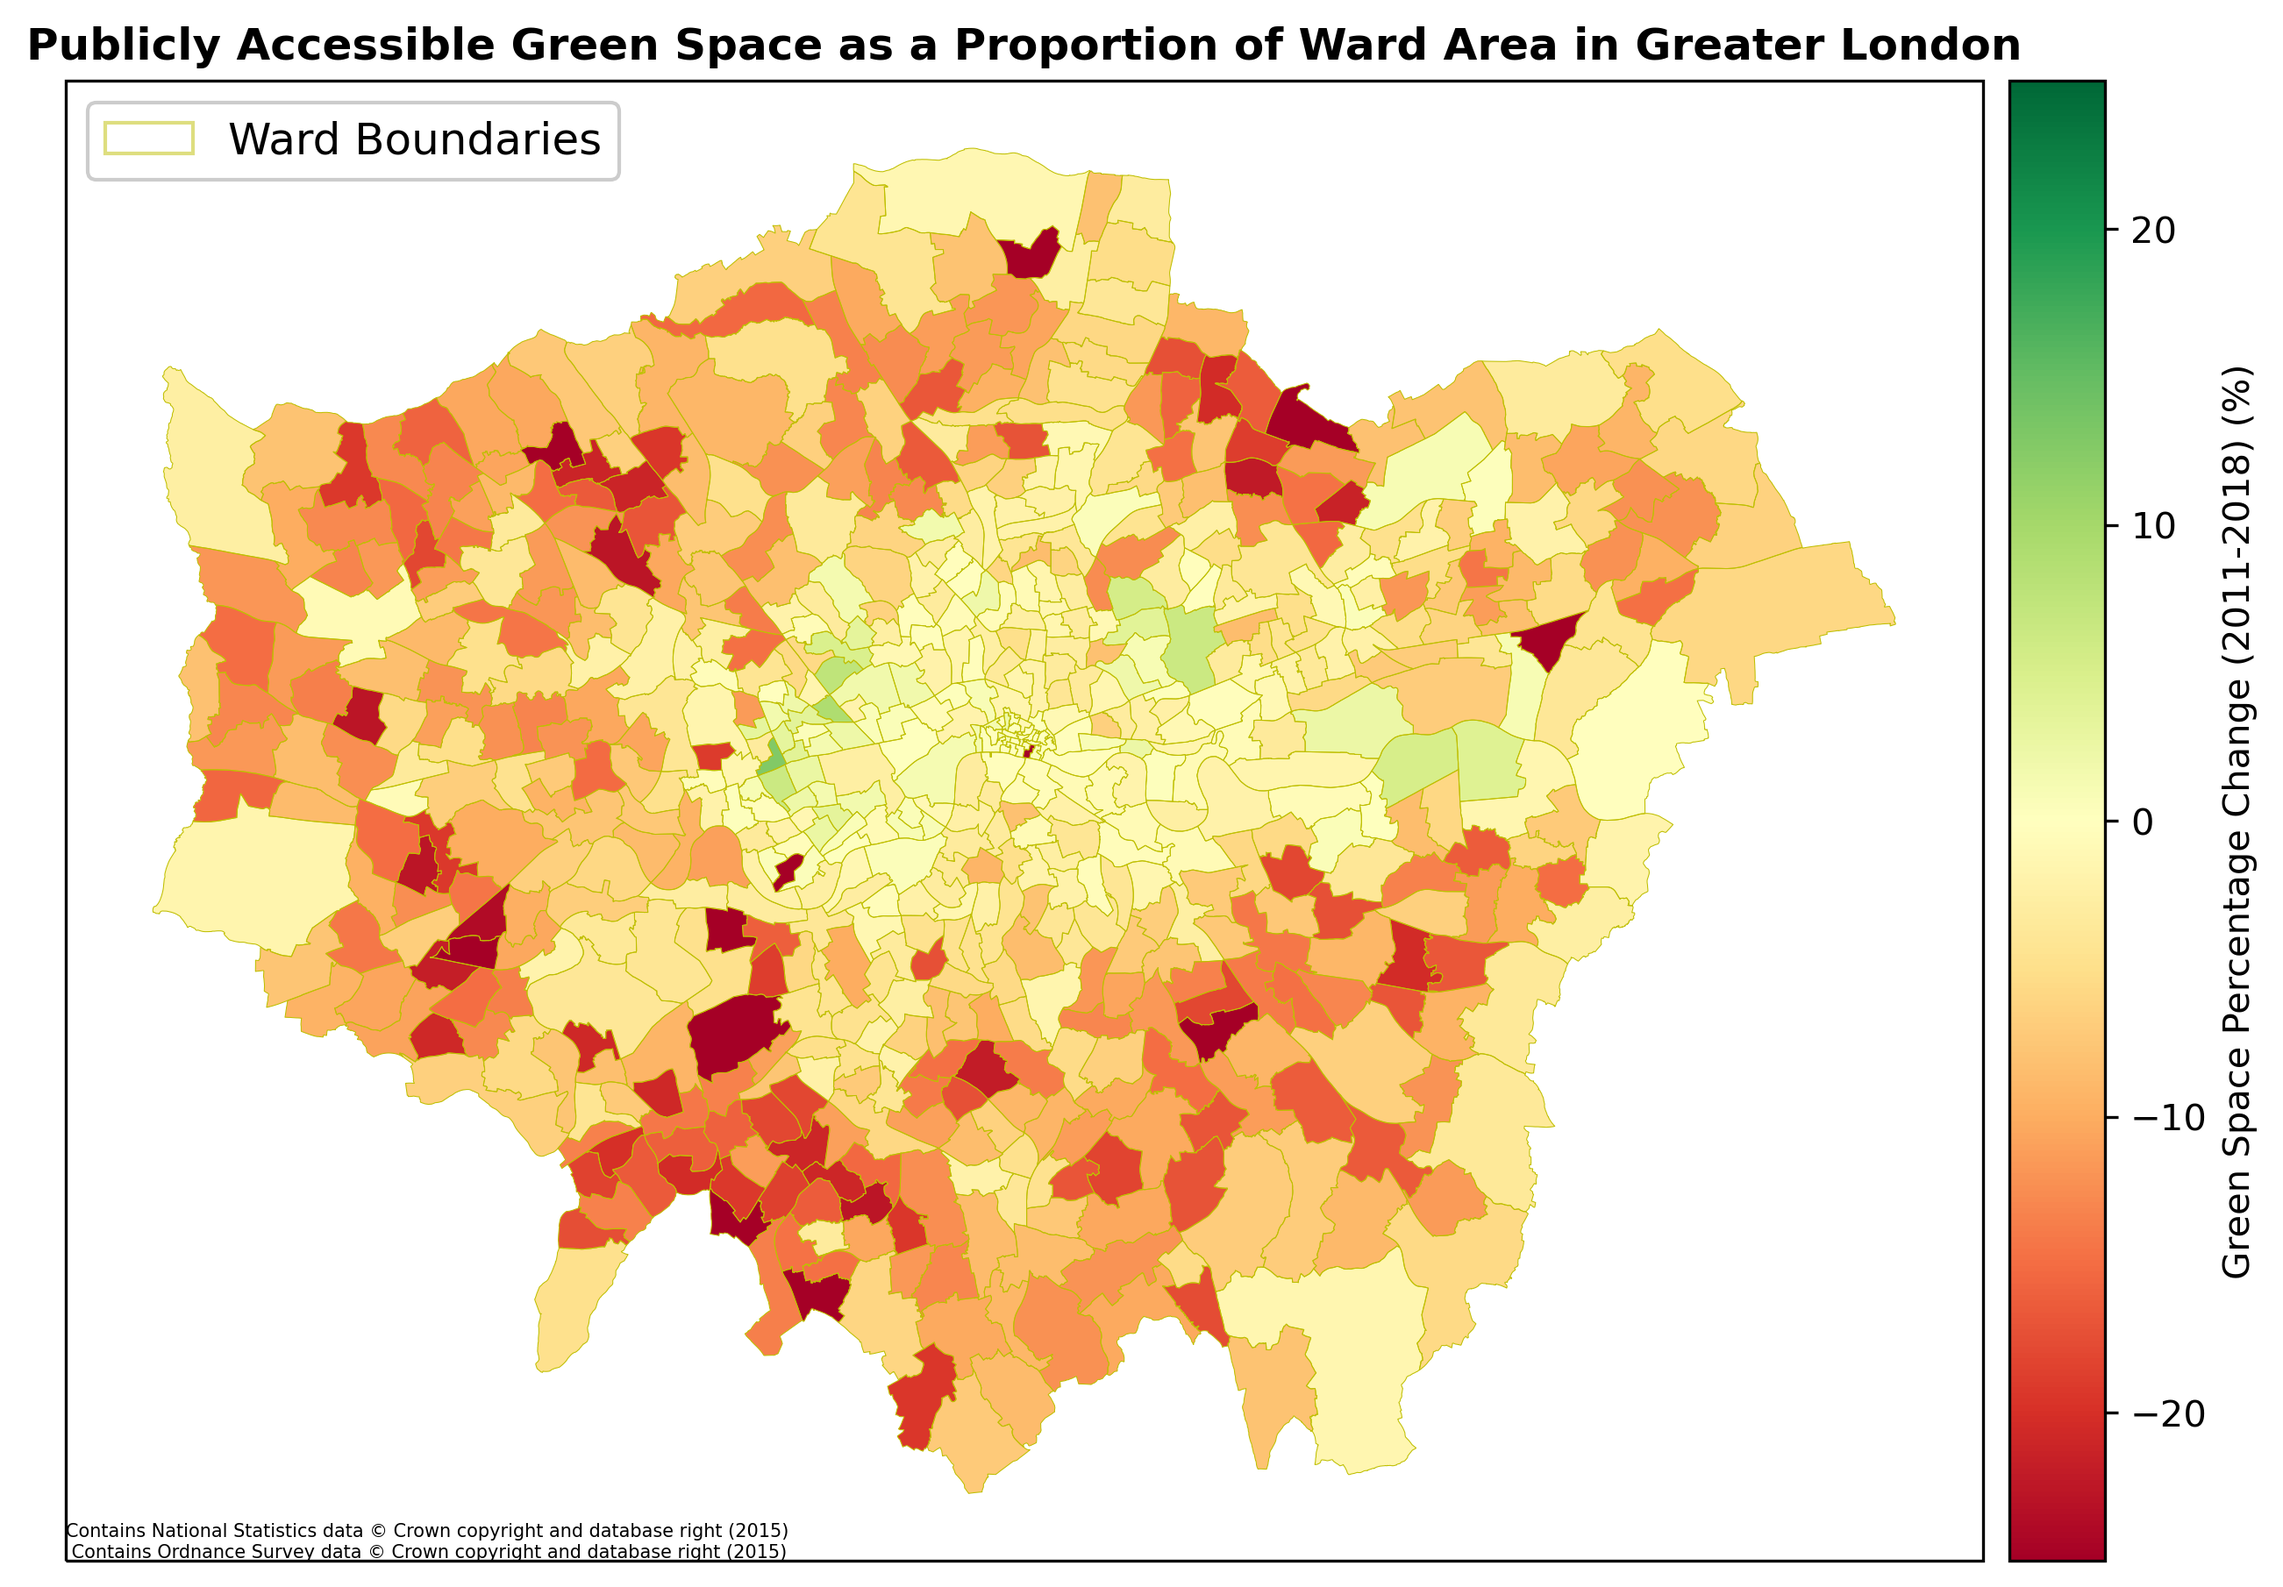
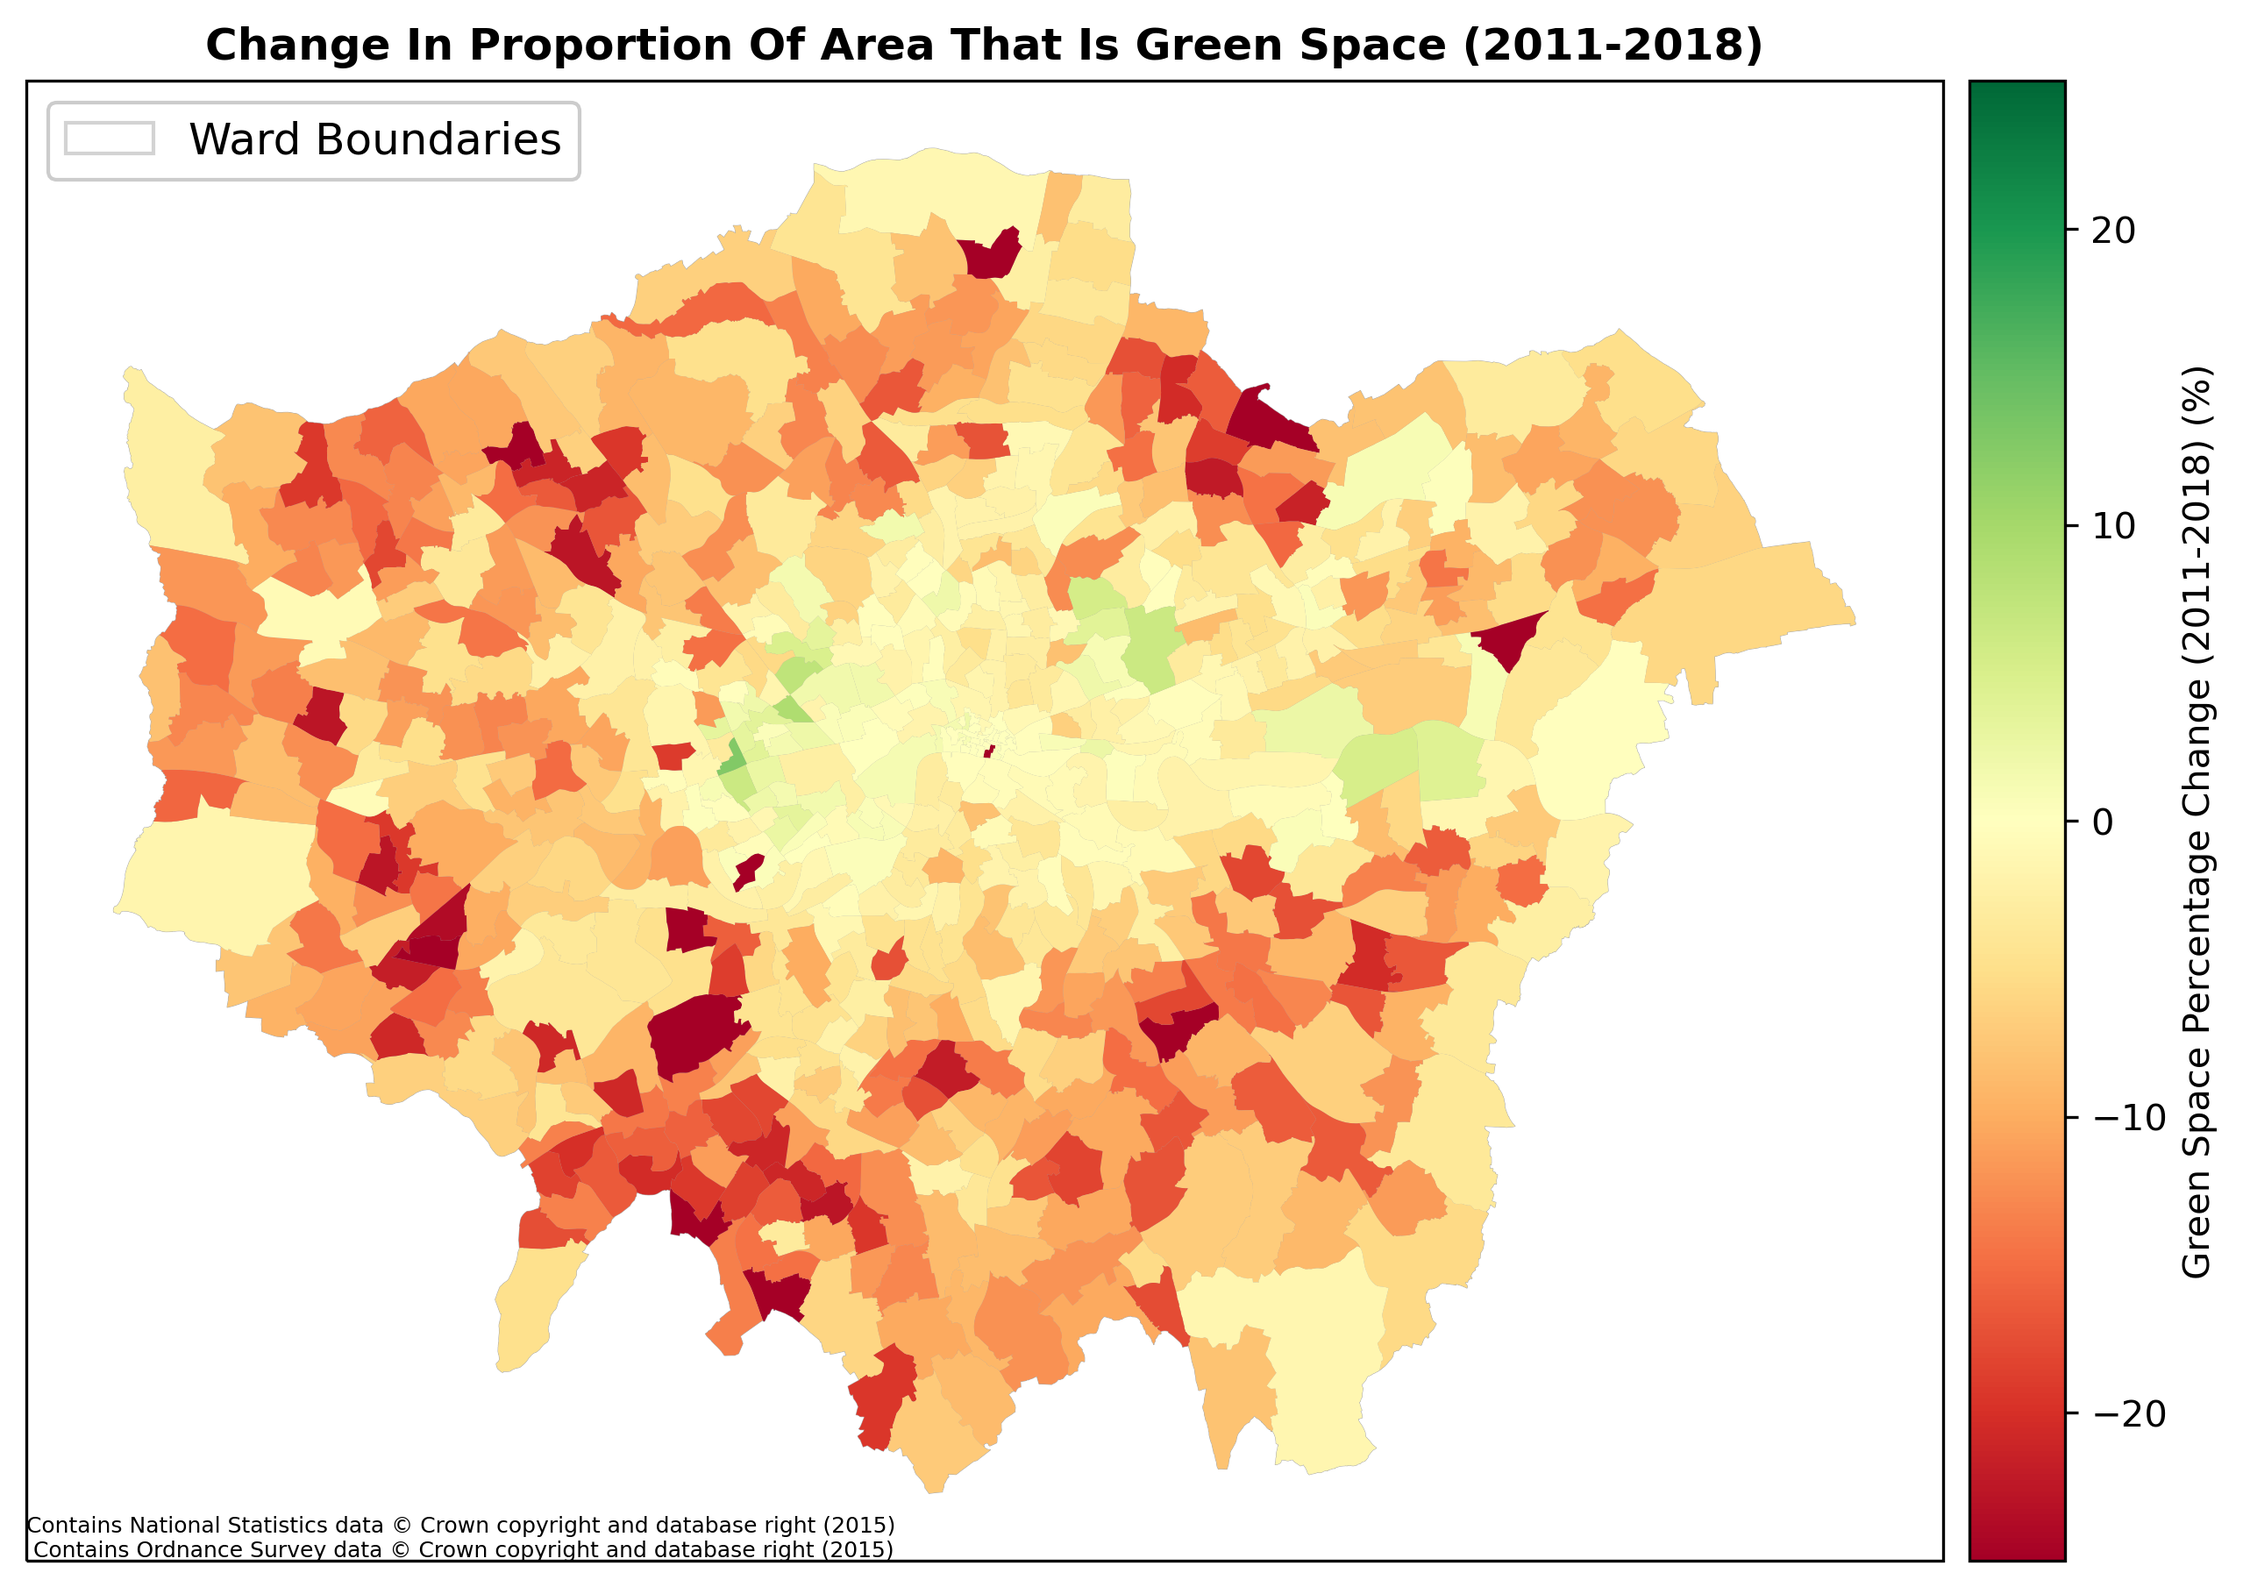
Both pieces of code working

diff --git a/Project Code Part 2.py b/Project Code Part 2.py
@@ -19,35 +19,35 @@ import matplotlib.patches as mpatches
 
 # 2 Load and prepare files for analysis
 
-# 2.1 Load the datasets from the data_files folder
+# i Load the datasets from the data_files folder
 wards = gpd.read_file('data_files/Electoral_Wards.shp')
 gs_2011 = gpd.read_file('data_files/2011_gs.shp')
 gs_2018 = gpd.read_file('data_files/2018_gs.shp')
 
-# 2.2 Ensure CRS is the same for all files
+# ii Ensure CRS is the same for all files
 wards = wards.to_crs(epsg=27700)
 gs_2011 = gs_2011.to_crs(epsg=27700)
 gs_2018 = gs_2018.to_crs(epsg=27700)
 
-# 2.2.1 Verify that CRS is the same for all files
+# iii Verify that CRS is the same for all files
 print('2011 CRS matches wards: ', (gs_2011.crs == wards.crs))
 print('2018 CRS matches wards: ', (gs_2018.crs == wards.crs))
 
-# 2.3 Clip Green Space shapefiles to London area
+# iv Clip Green Space shapefiles to London area
 gs_2011_clip = gpd.clip(gs_2011, wards)
 gs_2018_clip = gpd.clip(gs_2018, wards)
 
 # 3 Calculations
 
-# 3.1 Calculate area of each ward
+# i Calculate area of each ward
 
 for i, row in wards.iterrows():
     wards.loc[i, 'area_calc'] = row['geometry'].area
 
-# 3.1.1 Show/hide table in output
+# ii Show/hide table in output
 #print(wards.head(10))
 
-# 3.2 Calculate area of green space in each ward for both 2011 and 2018
+# iii Calculate area of green space in each ward for both 2011 and 2018
 
 for i, row in wards.iterrows():
     tmp_clip = gpd.clip(gs_2011_clip, row['geometry'])
@@ -58,22 +58,22 @@ for i, row in wards.iterrows():
     wards.loc[i, '2018_GS_Area'] = tmp_clip['Area'].sum()
     wards.loc[i, 'ward_name'] = row['NAME']
 
-# 3.2.1 Show/hide table in output
+# iv Show/hide table in output
 print(wards.head(0))
 
-# 3.3 Sum area of green space in each ward
+# v Sum area of green space in each ward
 gs_2011_sum = (wards.groupby(['NAME'])['2011_GS_Area'].sum())
 print(gs_2011_sum)
 gs_2018_sum = (wards.groupby(['NAME'])['2018_GS_Area'].sum())
 print(gs_2018_sum)
 
-# 3.4 Join both green space sums to 'wards' table to create a new table named 'joined'
+# vi Join both green space sums to 'wards' table to create a new table named 'joined'
 join_temp = wards.set_index('NAME').join(gs_2011_sum.rename('2011_GS_Sum'))
 for i, row in join_temp.iterrows():
     join_temp.loc[i, 'NAME'] = row['ward_name']
 joined = join_temp.set_index('NAME').join(gs_2018_sum.rename('2018_GS_Sum'))
 
-# 3.5 Calculate percentage of green space in each ward
+# vii Calculate percentage of green space in each ward
 for i, row in joined.iterrows():
     joined.loc[i, 'gs_perc_2011'] = ((row['2011_GS_Sum'] / row['area_calc']) * 100)
     joined.loc[i, 'gs_perc_2018'] = ((row['2018_GS_Sum'] / row['area_calc']) * 100)
@@ -81,10 +81,10 @@ for i, row in joined.iterrows():
 for i, row in joined.iterrows():
     joined.loc[i, 'gs_change'] = (row['gs_perc_2018'] - row['gs_perc_2011'])
 
-# 3.5.1 Show/hide table in output
+# viii Show/hide table in output
 print(joined.head(10))
 
-# 3.6 save shapefile with calculated columns
+# ix save shapefile with calculated columns
 # joined.to_file("Output/gs_2011_2018_diff.shp")
 
 # 4 Output green space percentage to a map
@@ -99,29 +99,29 @@ def generate_handles(labels, colors, edge='k', alpha=0.5):
 
 plt.ion()
 
-# Set projection
+# i Set projection
 myCRS = ccrs.UTM(29)
 
-# Prepare map area
+# ii Prepare map area
 fig, ax = plt.subplots(1, 1, figsize=(10, 10), subplot_kw=dict(projection=myCRS))
 
 divider = make_axes_locatable(ax)
 cax = divider.append_axes("right", size="5%", pad=0.1, axes_class=plt.Axes)
 
-# Add ward outlines
+# iii Add ward outlines
 ward_outlines = ShapelyFeature(joined['geometry'], myCRS, edgecolor='darkgray', facecolor='none', linewidth=0.25)
 
 ax.add_feature(ward_outlines)
 county_handles = generate_handles([''], ['none'], edge='darkgray')
 
-# Data bounds and colour scale
+# vi Data bounds and colour scale
 gs_plot = joined.plot(column='gs_change', ax=ax, vmin=-25, vmax=25, cmap='RdYlGn',
                        legend=True, cax=cax, legend_kwds={'label': 'Green Space Percentage Change (2011-2018) (%)'})
 
-# Legend
-ax.legend(county_handles, ['Ward Boundaries'], fontsize=12, loc='upper left', framealpha=1)
+# v Legend
+ax.legend(county_handles, ['Ward Boundaries'], fontsize=12, loc='lower right', framealpha=1)
 
-# Copyright info
+# vi Copyright info
 ax.text(0, 0, 'Contains National Statistics data © Crown copyright and database right (2015) \n '
             'Contains Ordnance Survey data © Crown copyright and database right (2015)',
         verticalalignment='bottom',
@@ -129,9 +129,9 @@ ax.text(0, 0, 'Contains National Statistics data © Crown copyright and database
         transform=ax.transAxes,
         fontsize=6)
 
-# Title
+# vii Title
 ax.set_title('Change In Proportion Of Area That Is Green Space (2011-2018)',
              fontweight="bold")
 
-# 4.1 save the map
+# viii save the map
 fig.savefig('Output/Green_Space_Change.png', dpi=300, bbox_inches='tight')

diff --git a/Project Code Part 1.py b/Project Code Part 1.py
@@ -17,31 +17,31 @@ import matplotlib.patches as mpatches
 
 # 2 Load and prepare files for analysis
 
-# 2.1 Load the datasets from the data_files folder
+# i Load the datasets from the data_files folder
 wards = gpd.read_file('data_files/Electoral_Wards.shp')
 green_space = gpd.read_file('data_files/OS_Green_Space.shp')
 
-# 2.2 Ensure CRS is the same for both files
+# ii Ensure CRS is the same for both files
 wards = wards.to_crs(epsg=27700)
 green_space = green_space.to_crs(epsg=27700)
 
-# 2.2.1 Verify that CRS is the same for both
+# iii Verify that CRS is the same for both
 print('CRS matches: ', (green_space.crs == wards.crs))
 
-# 2.3 Clip Green Space shapefile to London area
+# iv Clip Green Space shapefile to London area
 green_clip = gpd.clip(green_space, wards)
 
 # 3 Calculations
 
-# 3.1 Calculate area of each ward
+# i Calculate area of each ward
 
 for i, row in wards.iterrows():
     wards.loc[i, 'area_calc'] = row['geometry'].area
 
-# 3.1.1 Show/hide table in output
+# ii Show/hide table in output
 print(wards.head(10))
 
-# 3.2 Calculate area of green space in each ward
+# iii Calculate area of green space in each ward
 ward_clip = wards[wards['NAME'] == 'ward']
 
 for i, row in wards.iterrows():
@@ -50,24 +50,24 @@ for i, row in wards.iterrows():
     wards.loc[i, 'GS_Area'] = tmp_clip['Area'].sum()
     wards.loc[i, 'ward_name'] = row['NAME']
 
-# 3.2.1 Show/hide table in output
+# iv Show/hide table in output
 print(wards.head(10))
 
-# 3.3 Sum area of green space in each ward
+# v Sum area of green space in each ward
 gs_sum = (wards.groupby(['NAME'])['GS_Area'].sum())
 print(gs_sum)
 
-# 3.4 Join gs_sum to wards table
+# vi Join gs_sum to wards table
 joined = wards.set_index('NAME').join(gs_sum.rename('Total GS Area'))
 
-# 3.5 Calculate percentage of green space in each ward
+# vii Calculate percentage of green space in each ward
 for i, row in joined.iterrows():
     joined.loc[i, 'gs_percent'] = ((row['Total GS Area'] / row['area_calc']) * 100)
 
-# 3.5.1 Show/hide table in output
+# viii Show/hide table in output
 print(joined.head(10))
 
-# 3.6 save shapefile with calculated columns
+# ix save shapefile with calculated columns
 # joined.to_file("Output/joined.shp")
 
 # 4 Output green space percentage to a map
@@ -82,30 +82,30 @@ def generate_handles(labels, colors, edge='k', alpha=0.5):
 
 plt.ion()
 
-# Set projection
+# i Set projection
 myCRS = ccrs.UTM(29)
 
-# Prepare map area
+# ii Prepare map area
 fig, ax = plt.subplots(1, 1, figsize=(10, 10), subplot_kw=dict(projection=myCRS))
 
 divider = make_axes_locatable(ax)
 cax = divider.append_axes("right", size="5%", pad=0.1, axes_class=plt.Axes)
 
-# Add ward outlines
+# iii Add ward outlines
 ward_outlines = ShapelyFeature(joined['geometry'], myCRS, edgecolor='darkgray', facecolor='none', linewidth=0.25)
 
 ax.add_feature(ward_outlines)
 county_handles = generate_handles([''], ['none'], edge='darkgray')
 
-# Data bounds and colour scale
+# iv Data bounds and colour scale
 gs_plot = joined.plot(column='gs_percent', ax=ax, vmin=0, vmax=50, cmap='Greens',
                        legend=True, cax=cax, legend_kwds={'label': 'Green Space Percentage (%)'})
 
 
-# Legend
+# v Legend
 ax.legend(county_handles, ['Ward Boundaries'], fontsize=12, loc='lower right', framealpha=1)
 
-# Copyright info
+# vi Copyright info
 ax.text(0, 0, 'Contains National Statistics data © Crown copyright and database right (2015) \n '
                            'Contains Ordnance Survey data © Crown copyright and database right (2015)',
         verticalalignment='bottom',
@@ -113,9 +113,9 @@ ax.text(0, 0, 'Contains National Statistics data © Crown copyright and database
         transform=ax.transAxes,
         fontsize=6)
 
-# Title
+# vii Title
 ax.set_title('Publicly Accessible Green Space as a Proportion of Ward Area in Greater London',
              fontweight="bold")
 
-# 4.1 save the map
+# viii save the map
 fig.savefig('Output/OS_Green_Space_Percent_b.png', dpi=300, bbox_inches='tight')
